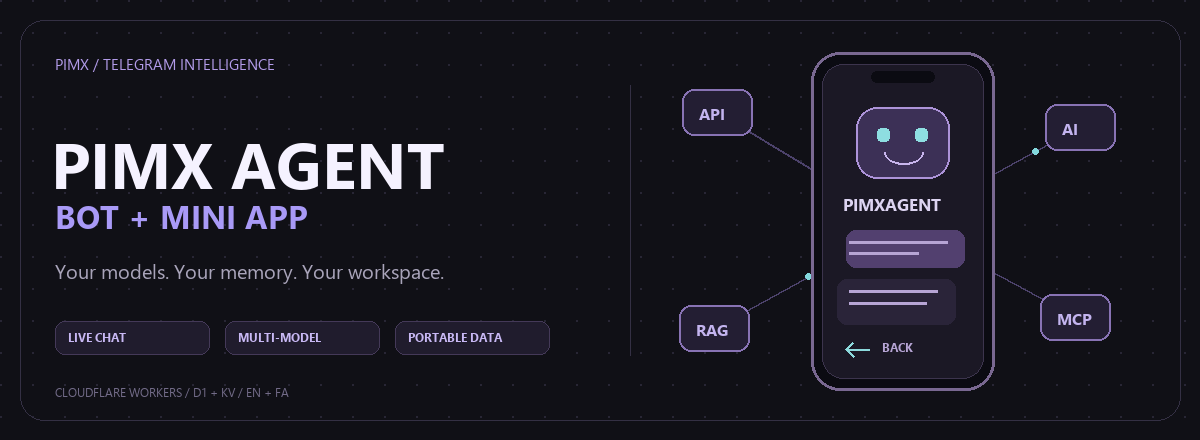
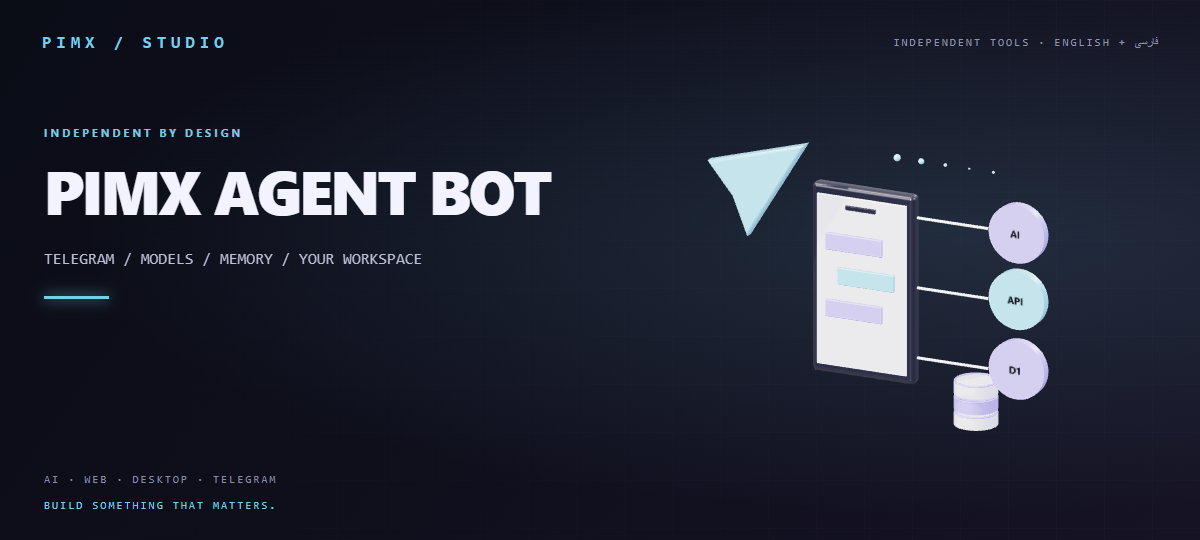
Publish current project and bilingual guides with original animated 3D artwork

diff --git a/README.fa.md b/README.fa.md
@@ -1,6 +1,6 @@
 <div align="center">
 
-<img src="assets/readme/hero.gif" width="1200" alt="پیمکس ایجنت بات؛ فضای تلگرامی متصل به پروایدرهای هوش مصنوعی، دانش و ابزارها" />
+<img src="assets/readme/hero.gif" width="1200" height="540" alt="PIMX Agent Bot: original animated Telegram phone, paper plane, provider nodes and memory" />
 
 **[English](README.md) · [فارسی](README.fa.md)**
 
@@ -10,6 +10,8 @@
 ![Storage](https://img.shields.io/badge/Storage-D1_+_KV-a99af7)
 
 </div>
+
+<div dir="rtl">
 
 # 🤖 PIMX AGENT BOT
 
@@ -30,6 +32,17 @@
 [✨ قابلیتها](#features) · [👀 پیشنمایش](#preview) · [🚀 شروع سریع](#getting-started) · [⚙ تنظیمات](#configuration) · [🌍 استقرار](#deployment) · [🧪 تستها](#checks)
 
 ---
+
+## 🪐 یک ربات؛ یک فضای کاری متصل
+
+در انیمیشن سهبعدی اختصاصی این پروژه، گوشی تلگرام و هواپیمای کاغذی به گرههای هوش مصنوعی، API و حافظه متصلاند. این تصویر از معماری واقعی پروژه الهام گرفته است: هویت تلگرام، ارائهدهندههای انتخابی، پاسخهای زنده و دادههای شخصی پایدار. این صحنه مخصوص همین ربات ساخته شده است.
+
+| شروع | قدم بعدی |
+|:---|:---|
+| 👀 دیدن رابط | اجرای پیشنمایش ایزوله با دادهٔ نمونه و بدون کلید سرویس زنده |
+| 🔌 اتصال مدل | ورود از تلگرام، افزودن ارائهدهنده و دریافت مدلهای آن |
+| 💬 ادامهٔ گفتگو | انتخاب مدل، دریافت پاسخ زنده و باز کردن گفتگوی ذخیرهشده |
+| 💾 انتقال کار | خروجی گرفتن از آرشیو و تأیید صریح بازیابی در حساب دیگر |
 
 <a id="features"></a>
 
@@ -85,12 +98,16 @@
 
 Node.js نسخهٔ 22.12 یا بالاتر و npm لازم است. برای اجرای واقعی، حساب Cloudflare، توکن ربات از [BotFather](https://t.me/BotFather) و کلید سرویس هوش مصنوعی موردنظرت را آماده کن.
 
+<div dir="ltr">
+
 ```bash
 git clone https://github.com/MOHAMMADREZAABEDINPOOR/PIMX_AGENT_BOT.git
 cd PIMX_AGENT_BOT
 npm ci
 npm run preview
 ```
+
+</div>
 
 آدرس `http://127.0.0.1:8787/app` را باز کن. این پیشنمایش از حسابهای آزمایشی امضاشده، ذخیرهسازی در حافظه و پاسخ زندهٔ شبیهسازیشده استفاده میکند و به ربات یا پروایدر واقعی وصل نمیشود. کاربردش توسعه و بررسی رابط است.
 
@@ -134,13 +151,19 @@ Bindingهای میزبانی: **`DB`** برای D1 و **`BOT_KV`** برای KV. 
 
 ### راهاندازی اولیه و دیپلوی محلی
 
+<div dir="ltr">
+
 ```bash
 npm run login
 npx wrangler kv namespace create BOT_KV
 npx wrangler d1 create telegram-multi-ai-bots
 ```
 
+</div>
+
 شناسههای خروجی را در `wrangler.toml` قرار بده و نام Bindingها را `BOT_KV` و `DB` نگه دار. سپس جدولها و سکرتها را بساز:
+
+<div dir="ltr">
 
 ```bash
 npx wrangler d1 execute telegram-multi-ai-bots --remote --file tools/schema.sql
@@ -149,6 +172,8 @@ npx wrangler secret put ADMIN_ID
 npx wrangler secret put SECRET_KEY
 npm run deploy
 ```
+
+</div>
 
 یکبار `https://<your-worker>.workers.dev/setup` را باز کن تا وبهوک، دکمهٔ مینیاپ و دستورات ربات ثبت شوند. `/start` بفرست، مینیاپ را باز کن و اولین پروایدر را اضافه کن. Cron هر دقیقه برای یادآورها و کارهای زمانبندیشده اجرا میشود.
 
@@ -166,6 +191,8 @@ npm run deploy
 
 ## 🧭 معماری و ساختار پروژه
 
+<div dir="ltr">
+
 ```mermaid
 flowchart LR
     T[Telegram Bot] --> W[Cloudflare Worker]
@@ -177,6 +204,8 @@ flowchart LR
     W --> K[(KV)]
     W --> R[Memory / Knowledge / Agents / Operations]
 ```
+
+</div>
 
 | مسیر | مسئولیت |
 |:---|:---|
@@ -228,5 +257,7 @@ flowchart LR
 <div align="center">
 
 🤖 **PIMX AGENT BOT** · عضوی از خانوادهٔ **PIMX** · [English](README.md) · [فارسی](README.fa.md)
+
+</div>
 
 </div>

diff --git a/README.md b/README.md
@@ -1,6 +1,6 @@
 <div align="center">
 
-<img src="assets/readme/hero.gif" width="1200" alt="PIMX AGENT BOT: an animated Telegram workspace connected to AI providers, knowledge and tools" />
+<img src="assets/readme/hero.gif" width="1200" height="540" alt="PIMX Agent Bot: original animated Telegram phone, paper plane, provider nodes and memory" />
 
 **[English](README.md) · [فارسی](README.fa.md)**
 
@@ -30,6 +30,17 @@ A personal AI workspace combining a Telegram bot, a Persian RTL Mini App and a m
 [✨ Features](#features) · [👀 Preview](#preview) · [🚀 Getting started](#getting-started) · [⚙ Configuration](#configuration) · [🌍 Deployment](#deployment) · [🧪 Checks](#checks)
 
 ---
+
+## 🪐 One bot. A connected AI workspace.
+
+The original 3D artwork links a Telegram phone and paper plane to AI, API and storage nodes. It represents the actual architecture: Telegram identity, your selected providers, streamed conversations and persistent personal data. Every project has its own scene; this one belongs to the bot.
+
+| Start here | Next step |
+|:---|:---|
+| 👀 Try the interface | Run the isolated fixture preview without live provider credentials |
+| 🔌 Connect a model | Open the Mini App through Telegram, add a provider and discover its models |
+| 💬 Keep a conversation | Choose a model, stream a response and reopen the saved chat |
+| 💾 Carry your work | Export your archive and explicitly confirm a restore into another account |
 
 <a id="features"></a>
 
